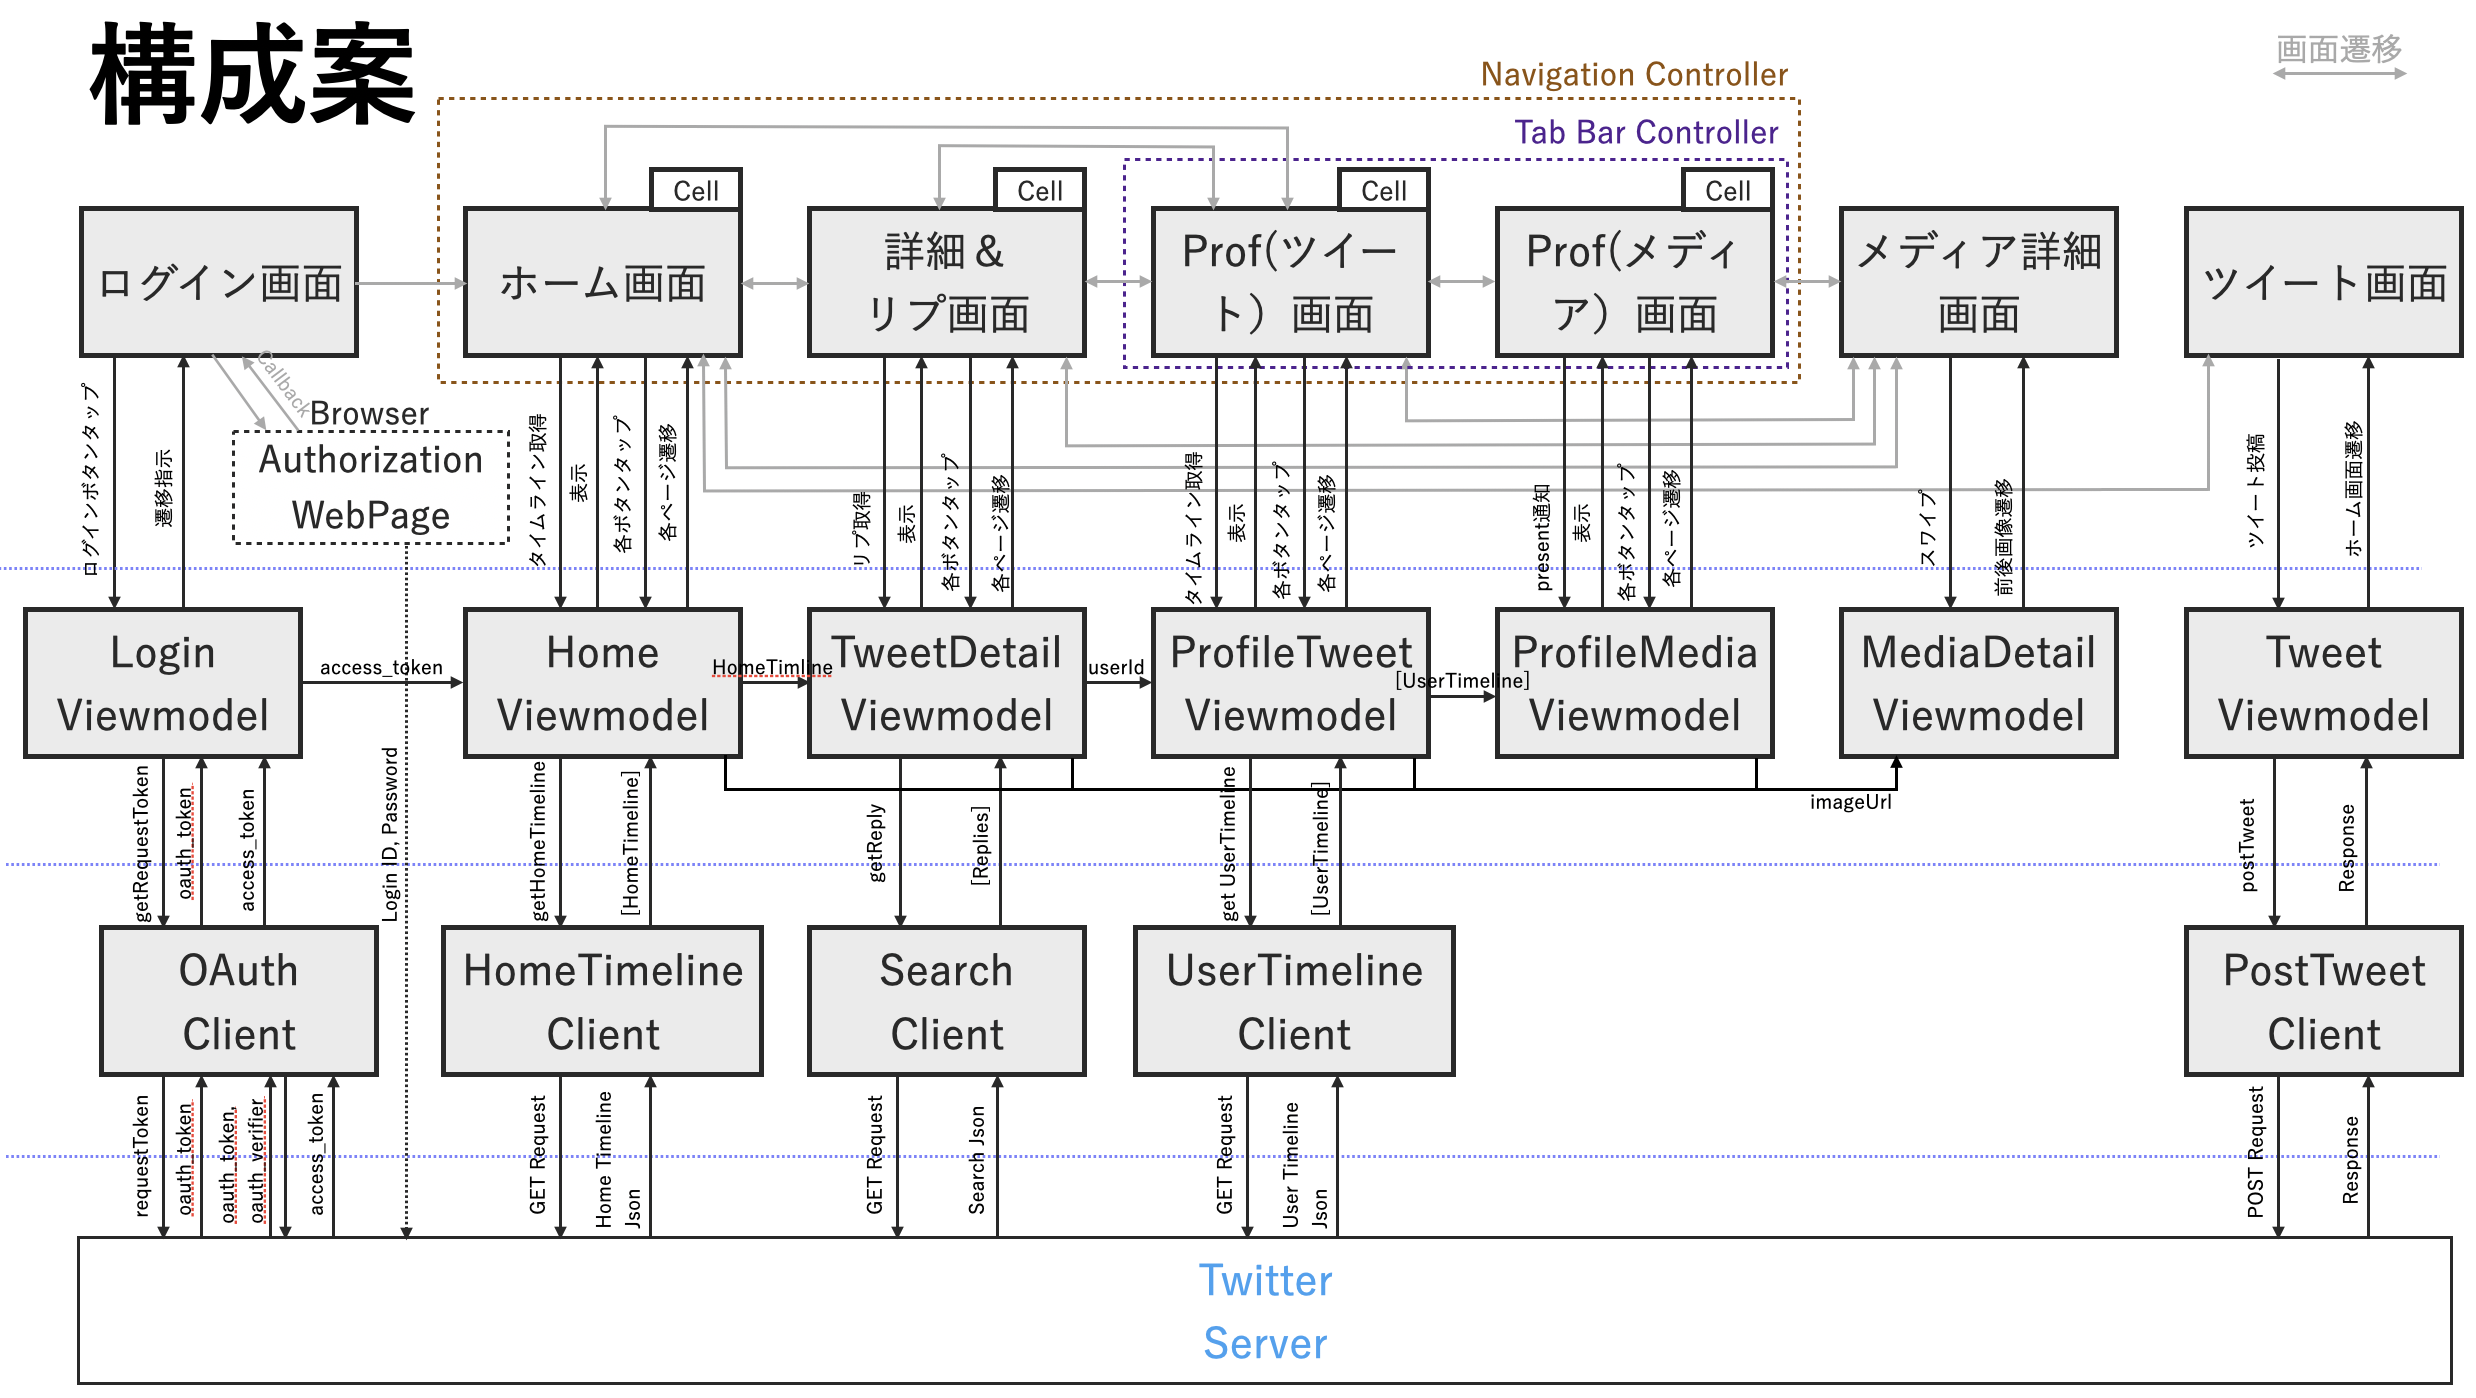
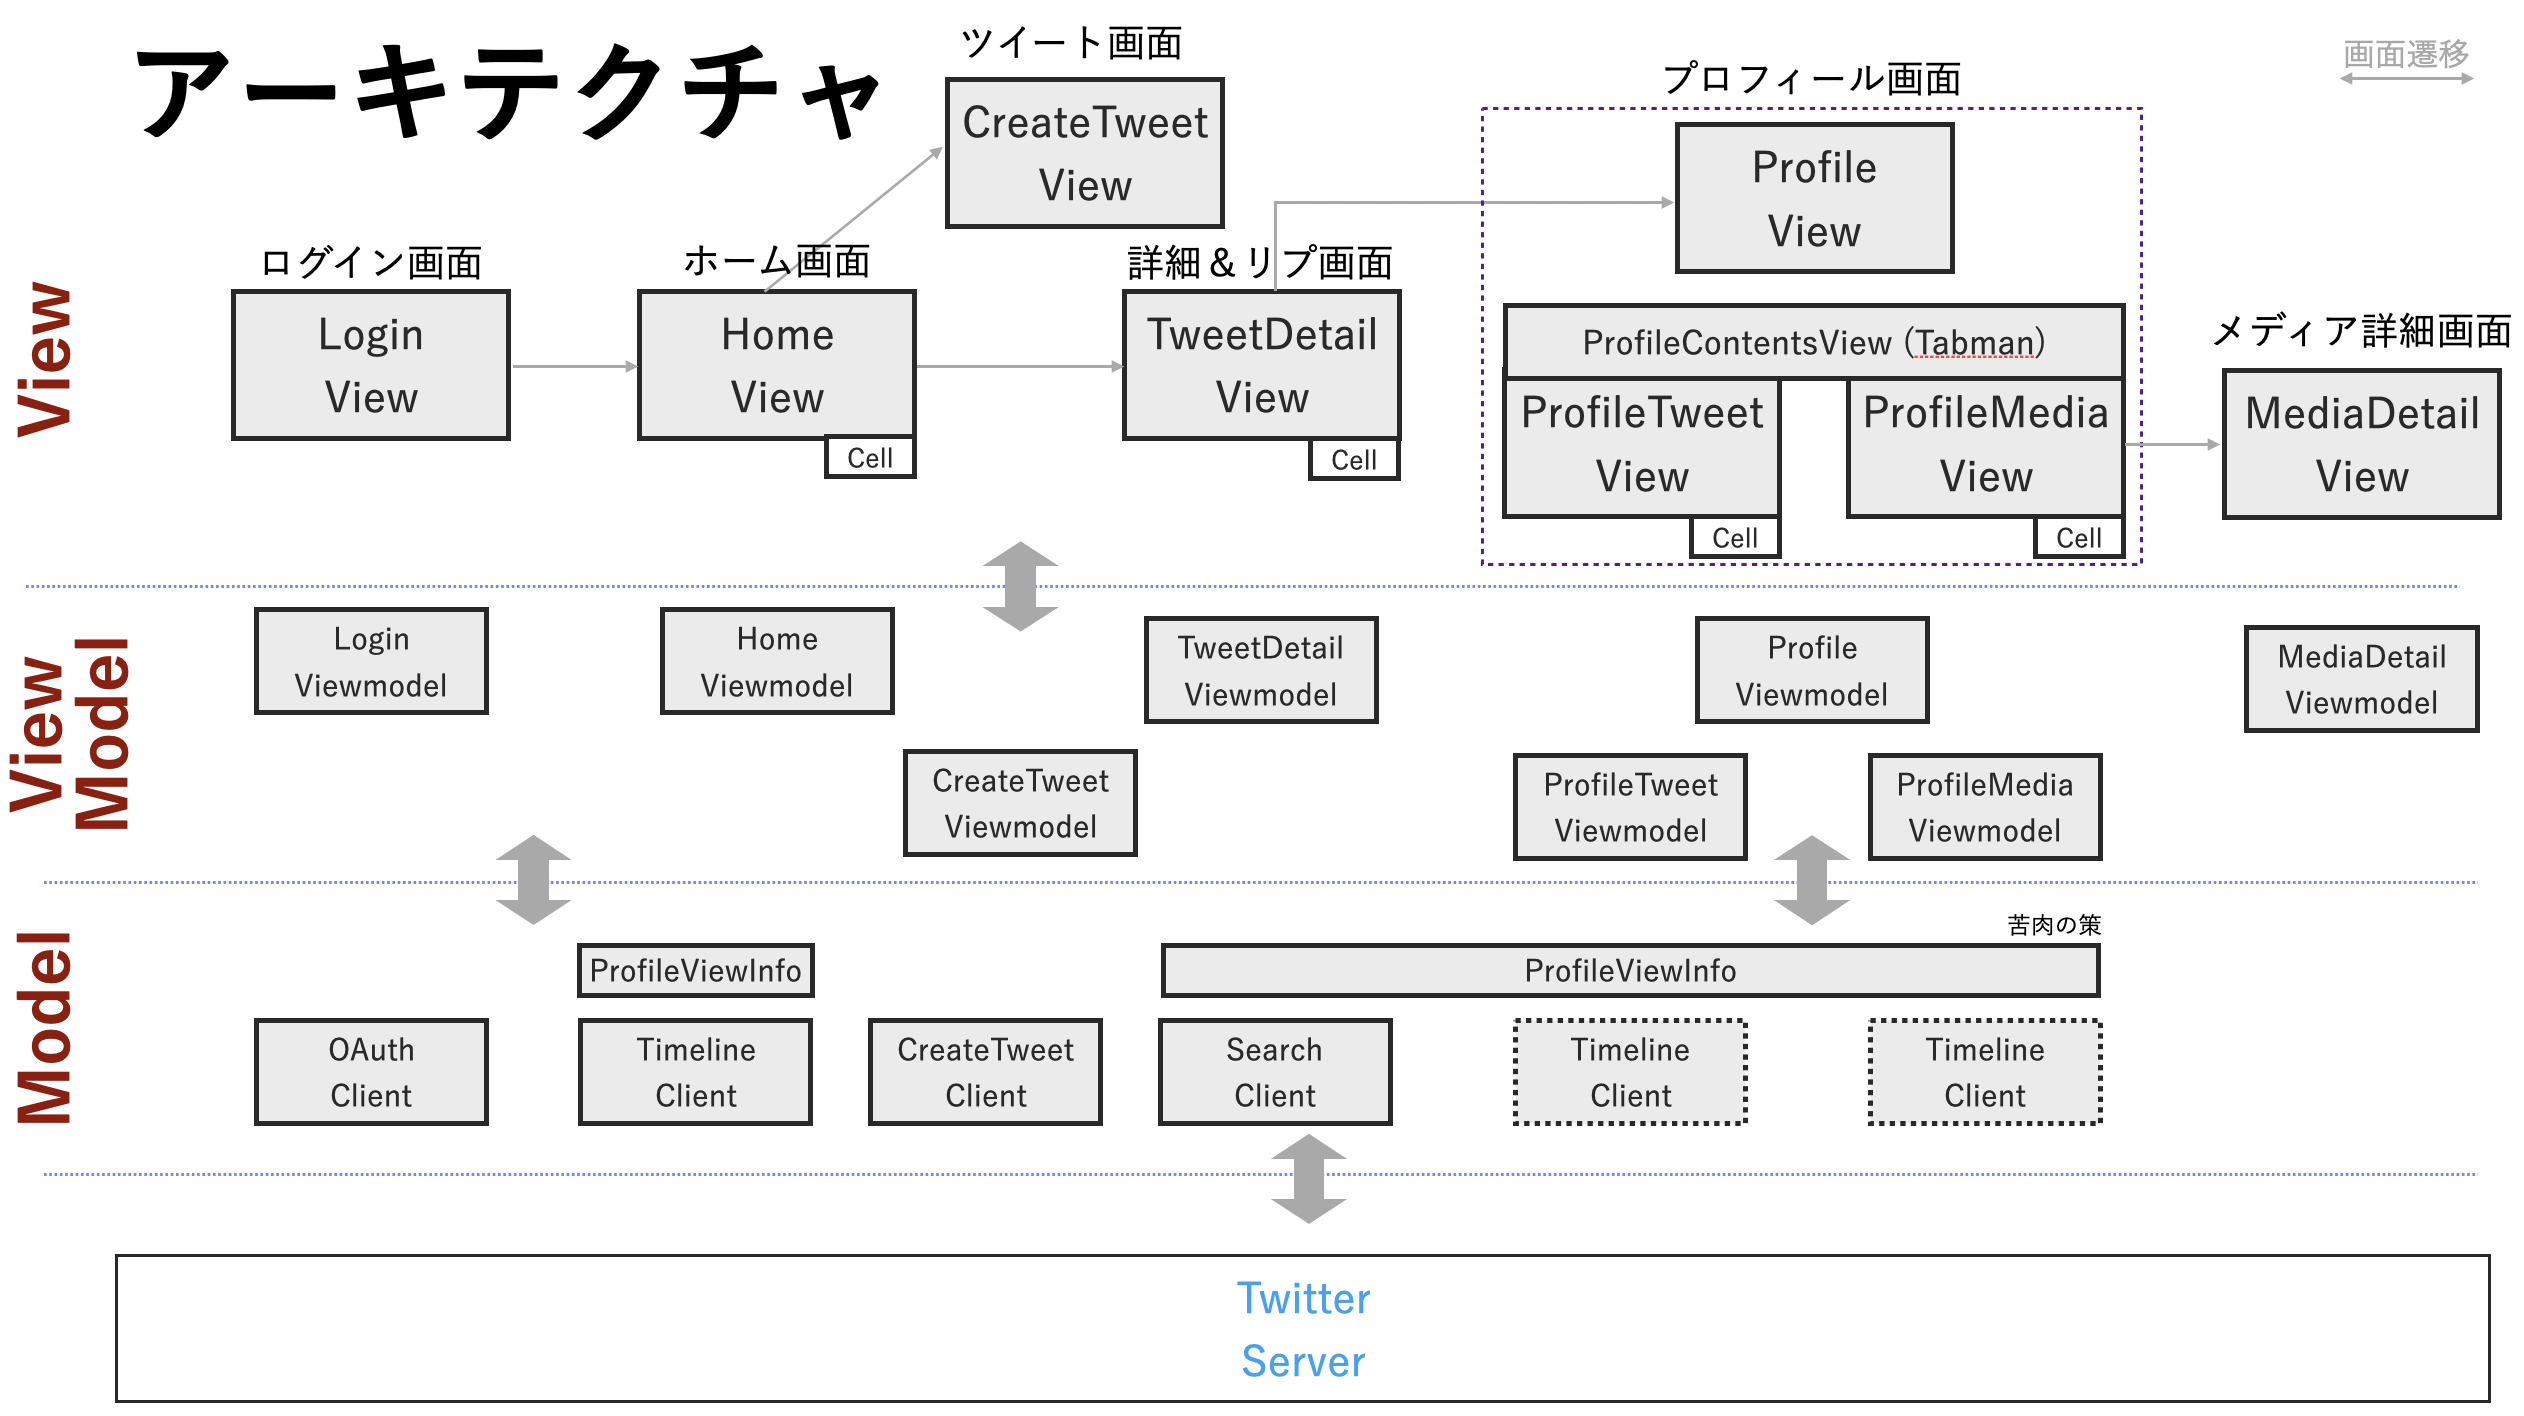
v1.0.1

diff --git a/README.md b/README.md
@@ -40,7 +40,7 @@
 
 ![ViewConcept](docs/images/ViewConcept.jpg)
 
-## 構成案
+## アーキテクチャ
 
 ![Architecture](docs/images/Architecture.png)
 
